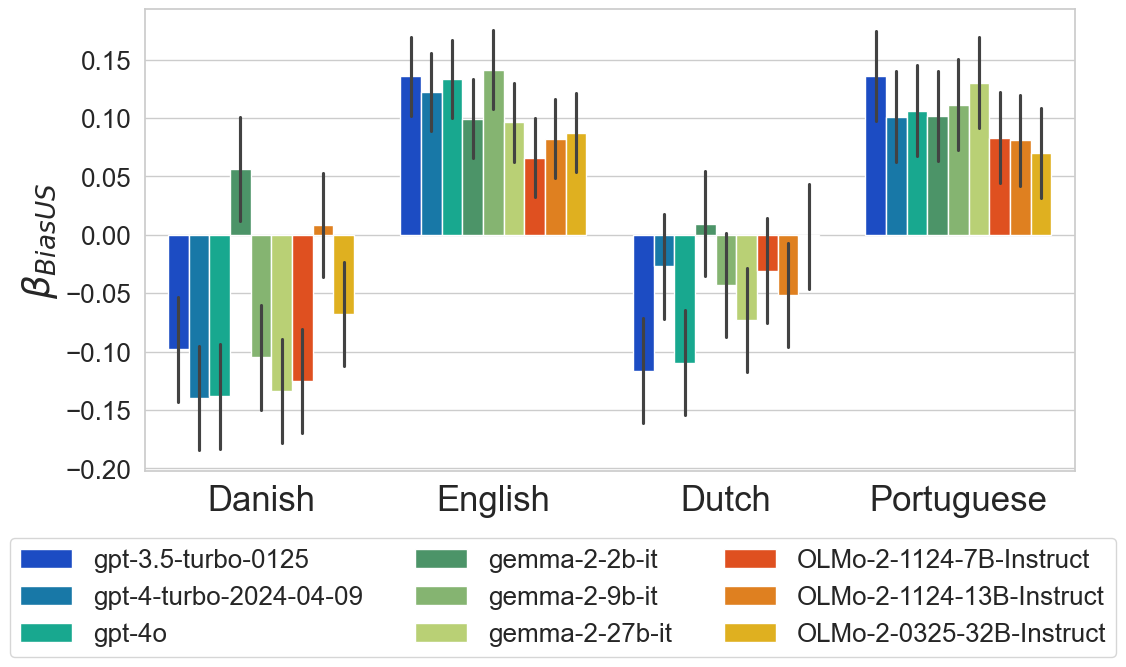
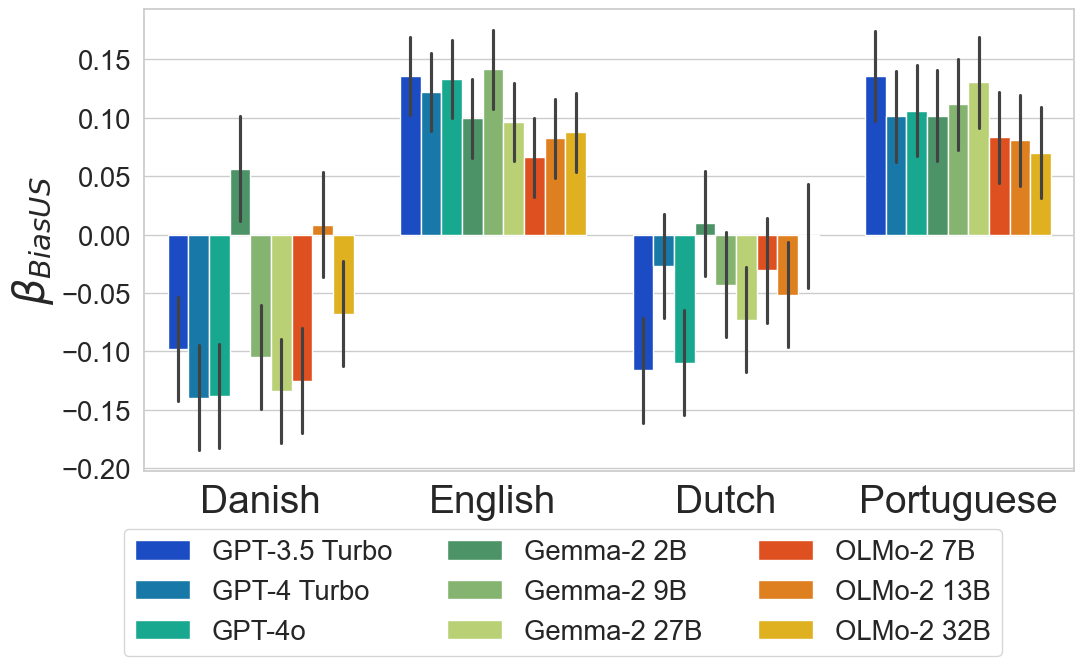
US bias new names

diff --git a/scripts/plot_us_centric_bias.py b/scripts/plot_us_centric_bias.py
@@ -7,9 +7,9 @@ import statsmodels.formula.api as smf
 from loguru import logger
 from statsmodels.regression.linear_model import RegressionResults
 
-from multicultural_alignment.constants import LANGUAGE_MAP, OUTPUT_DIR, PLOT_DIR
+from multicultural_alignment.constants import CLEAN_MODEL_NAMES, LANGUAGE_MAP, OUTPUT_DIR, PLOT_DIR
 from multicultural_alignment.models import add_families_df
-from multicultural_alignment.plot import get_model_color_dict
+from multicultural_alignment.plot import get_renamed_colours
 from multicultural_alignment.regression import save_regression_results
 
 language_pattern = r"language\[([^\]]+)\]"
@@ -97,17 +97,18 @@ def get_confidence_data(significant: pl.DataFrame) -> pl.DataFrame:
     return pl.concat([significant_lower, significant_higher, significant_mid])
 
 
-def plot_us_centric_bias(plot_data: pl.DataFrame) -> None:
+def plot_us_centric_bias(plot_data: pl.DataFrame, font_size: int = 27) -> None:
     plt.figure(figsize=(12, 6))
     plot = sns.barplot(
-        data=plot_data.sort("model_name").cast({"model_name": str}).with_columns(pl.col("language").replace(LANGUAGE_MAP)),
+        data=plot_data.sort("model_name")
+        .cast({"model_name": str})
+        .with_columns(pl.col("language").replace(LANGUAGE_MAP), pl.col("model_name").replace(CLEAN_MODEL_NAMES)),
         x="language",
         y="coefficient",
         hue="model_name",
-        palette=get_model_color_dict(),
+        palette=get_renamed_colours(),
         errorbar=("pi", 100),
     )
-    font_size = 27
     plot.set_ylabel("$\\beta_{BiasUS}$", fontsize=font_size)
     plot.set_xlabel(None)
     plot.set_xticklabels(plot.get_xticklabels(), fontsize=font_size - 2)
@@ -116,18 +117,19 @@ def plot_us_centric_bias(plot_data: pl.DataFrame) -> None:
     plt.savefig(PLOT_DIR / "us_bias_coefficients.png", bbox_inches="tight")
 
 
-def main(font_scale: float = 1.7):
+def main(font_scale: float = 1.7, font_size: int = 27):
     sns.set_theme(style="whitegrid", font_scale=font_scale)
     logger.info("Running US-centric bias regression")
     us_results = run_us_regression()
     save_regression_results(us_results, regression_type="normal", rq_method="us_centric_bias")
     logger.info(f"Regression table:\n{us_results.summary()}")
     plot_data = get_confidence_data(get_coefficients(us_results))
-    plot_us_centric_bias(plot_data)
+    plot_us_centric_bias(plot_data, font_size=font_size)
 
 
 if __name__ == "__main__":
     parser = argparse.ArgumentParser()
     parser.add_argument("--scale", type=float, default=1.7, help="Font scale for the plot")
+    parser.add_argument("--size", type=int, default=27, help="Font size for the plot")
     args = parser.parse_args()
-    main(font_scale=args.scale)
+    main(font_scale=args.scale, font_size=args.size)
